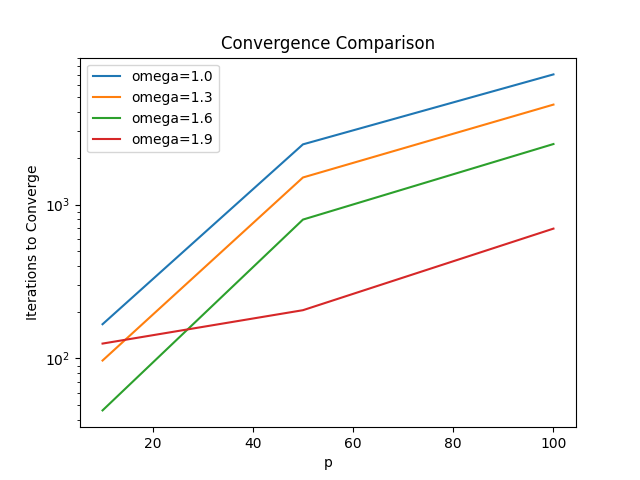
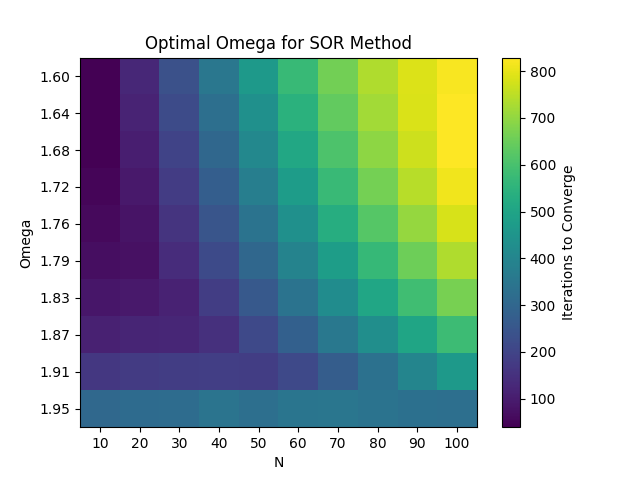
Changed way of plotting optimal omega to heatmap.

diff --git a/src/optimal_omega.py b/src/optimal_omega.py
@@ -6,16 +6,16 @@ from SOR import sor_simulation
 def init_grid():
     grid = np.zeros((N + 1, N + 1))
     grid[N, :] = 1.0  # Top boundary condition c(x, y=1) = 1
-    # print("Grid shape:", grid.shape)
 
     return grid
 
 if __name__ == '__main__':
     max_iter = 1_000_000  # Maximum iterations
 
-    # In the SOR method, find the optimal omega. How does it depend on N?
-    omega_values = np.linspace(1.0, 1.9, 4)
-    N_values = [10, 50, 100]
+
+    # Test various omega and N values
+    omega_values = np.linspace(1.60, 1.95, 10)
+    N_values = np.linspace(10, 100, 10, dtype=int)
 
     sor_results = {omega: [] for omega in omega_values}
 
@@ -23,21 +23,21 @@ if __name__ == '__main__':
         print(f"Current N: {N}")
 
         tol = 1e-5
-        # print(f"max_iter: {max_iter}")
+        mask = np.zeros((N + 1, N + 1))
 
         for omega in omega_values:
             print(f"Current omega: {omega}")
             grid = init_grid()
-            h_sor, t_sor = sor_simulation(omega, grid, max_iter, N, tol)
+            h_sor, t_sor = sor_simulation(omega, grid, max_iter, N, tol, mask)
             sor_results[omega].append(t_sor)
 
-    # Plot the final results with the y-axis as a log-lin scale
+    # Plot a heatmap, where the x-axis is N, the y-axis is omega, and the color represents the number of iterations.
     plt.figure()
-    for omega in omega_values:
-        plt.plot(N_values, sor_results[omega], label=f'omega={omega}')
-    plt.yscale('log')
+    plt.imshow(np.array([sor_results[omega] for omega in omega_values]), aspect='auto', cmap='viridis')
+    plt.colorbar(label='Iterations to Converge')
     plt.xlabel('N')
-    plt.ylabel('Iterations to Converge')
+    plt.ylabel('Omega')
     plt.title('Optimal Omega for SOR Method')
-    plt.legend()
+    plt.xticks(range(len(N_values)), N_values)
+    plt.yticks(range(len(omega_values)), [f'{omega:.2f}' for omega in omega_values])
     plt.savefig('fig/optimal_omega.png')

diff --git a/src/convergence_measure.py b/src/convergence_measure.py
@@ -26,7 +26,6 @@ if __name__ == '__main__':
         print(f"p: {p}") # Check
 
         tol = 10**-p  # Convergence tolerance
-        print(f"max_iter: {max_iter}")
 
         grid = init_grid()
         h_jacobi, t_jacobi = jacobi_simulation(grid, max_iter, N, tol)
